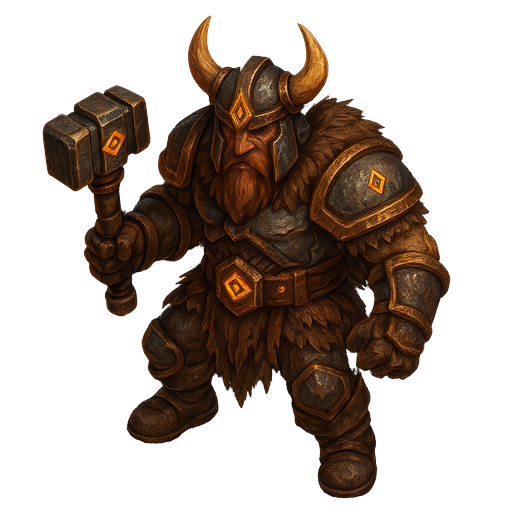
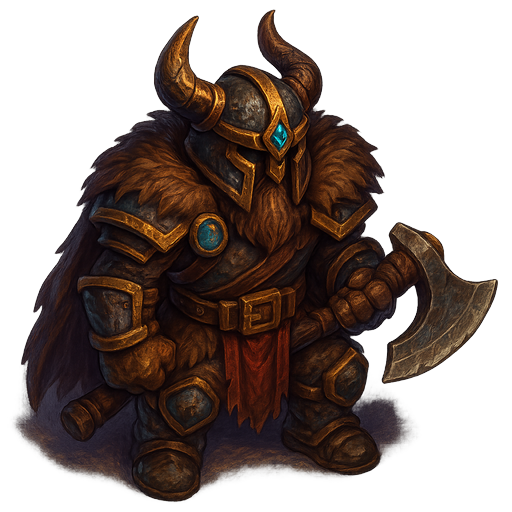
feat: visual polish pass — portal, fortress, boss, tower identity
- Portal: sprite drawn 63% larger (cs×6.5), + rotating dual rune ring
  and purple smoke wisps always drawn over the sprite
- Fortress: flanking torch flames (flickering, per-side phase offset) added
  to _drawGoal for identity without changing layout
- Boss enemies: pulsing crimson ground aura + dashed rotating threat ring;
  sprite rendered 30% larger (radius×7.8 vs 6.0) for screen presence
- Tower baseplates: Valkyrie → gold (#c8a030), Military/Archer → green
  (#3a8830); alpha raised 0.22→0.32, border stroke always drawn
- Synergy glow: reduced from '99' to '55' opacity for cleaner battlefield
- New AI sprites: ground_tile, path_tile, goal_trelleborg_fort regenerated

diff --git a/src/grid/grid.js b/src/grid/grid.js
@@ -175,19 +175,19 @@ export class Grid {
 
     const sp = SPRITES['portal'];
     if (sp && sp.img.complete && sp.img.naturalWidth > 0) {
-      const dw = cs * 4;
+      const dw = cs * 6.5;
       const dh = dw * (sp.frameH / sp.frameW);
       ctx.save();
-      ctx.shadowColor = `rgba(140,60,255,${0.55 + pulse * 0.45})`;
-      ctx.shadowBlur  = 16 * pulse;
+      ctx.shadowColor = `rgba(140,60,255,${0.65 + pulse * 0.35})`;
+      ctx.shadowBlur  = 22 * pulse;
       ctx.drawImage(sp.img, 0, 0, sp.frameW, sp.frameH, cx - dw / 2, cy - dh / 2, dw, dh);
       ctx.restore();
       // Pulsing purple void at center
       ctx.save();
-      ctx.globalAlpha = 0.25 * pulse;
+      ctx.globalAlpha = 0.30 * pulse;
       ctx.fillStyle   = '#a030ff';
       ctx.beginPath();
-      ctx.arc(cx, cy, cs * 0.8, 0, Math.PI * 2);
+      ctx.arc(cx, cy, cs * 0.9, 0, Math.PI * 2);
       ctx.fill();
       ctx.restore();
     } else {
@@ -249,6 +249,54 @@ export class Grid {
       ctx.fillStyle   = `rgba(245,225,255,${0.75 + pulse * 0.25})`;
       ctx.beginPath();
       ctx.arc(cx, cy, 1.8 + pulse * 0.9, 0, Math.PI * 2);
+      ctx.fill();
+      ctx.restore();
+    }
+
+    // ── Rotating rune ring — always drawn over sprite or fallback ─────────────
+    {
+      const rot1 =  time * 1.1;
+      const rot2 = -time * 0.7;
+      const ringR = cs * 2.6;
+      ctx.save();
+      ctx.translate(cx, cy);
+
+      ctx.rotate(rot1);
+      ctx.strokeStyle = `rgba(160,80,255,${0.28 + pulse * 0.22})`;
+      ctx.lineWidth   = 0.8;
+      ctx.setLineDash([2, 5]);
+      ctx.beginPath(); ctx.arc(0, 0, ringR, 0, Math.PI * 2); ctx.stroke();
+      for (let i = 0; i < 6; i++) {
+        const a = (i / 6) * Math.PI * 2;
+        ctx.save();
+        ctx.translate(Math.cos(a) * ringR, Math.sin(a) * ringR);
+        ctx.fillStyle = `rgba(200,140,255,${0.55 + pulse * 0.35})`;
+        ctx.beginPath(); ctx.arc(0, 0, 1.2, 0, Math.PI * 2); ctx.fill();
+        ctx.restore();
+      }
+
+      ctx.rotate(rot2 - rot1);
+      ctx.strokeStyle = `rgba(100,160,255,${0.18 + pulse * 0.14})`;
+      ctx.lineWidth   = 0.6;
+      ctx.setLineDash([1, 4]);
+      ctx.beginPath(); ctx.arc(0, 0, ringR * 0.72, 0, Math.PI * 2); ctx.stroke();
+
+      ctx.setLineDash([]);
+      ctx.restore();
+    }
+
+    // ── Smoke wisps drifting up from portal base ───────────────────────────────
+    for (let i = 0; i < 4; i++) {
+      const si = i / 4;
+      const sw = cs * 0.7 * Math.sin(time * 1.4 + i * 2.1);
+      const sh = cy + cs * (0.4 + Math.sin(time * 2.1 + i * 1.8) * 0.15);
+      const sr = 2.2 + Math.sin(time + i) * 0.8;
+      const sa = (0.10 + Math.sin(time * 1.8 + i * 0.7) * 0.04) * (1 - si * 0.25);
+      ctx.save();
+      ctx.globalAlpha = sa;
+      ctx.fillStyle   = '#c880ff';
+      ctx.beginPath();
+      ctx.arc(cx + sw, sh, sr, 0, Math.PI * 2);
       ctx.fill();
       ctx.restore();
     }
@@ -435,6 +483,39 @@ export class Grid {
       ctx.fill();
       ctx.shadowBlur = 0;
       ctx.restore();
+    }
+
+    // ── Fortress torches — two flickering flames flanking the fortress ─────────
+    {
+      const flickerL = 0.55 + Math.sin(time * 9.1) * 0.25 + Math.sin(time * 13.7) * 0.12;
+      const flickerR = 0.55 + Math.sin(time * 8.3 + 1.4) * 0.25 + Math.sin(time * 12.1 + 0.9) * 0.12;
+      const torchPositions = [
+        { tx: cx - cs * 2.6, ty: cy - cs * 0.5, flicker: flickerL },
+        { tx: cx + cs * 2.6, ty: cy - cs * 0.5, flicker: flickerR },
+      ];
+      for (const { tx, ty, flicker } of torchPositions) {
+        ctx.save();
+        // Torch pole
+        ctx.fillStyle = '#5a3812';
+        ctx.fillRect(tx - 1, ty, 2, cs * 1.0);
+        // Torch head
+        ctx.fillStyle = '#8a5820';
+        ctx.fillRect(tx - 2.5, ty - 3, 5, 5);
+        // Flame glow
+        ctx.shadowColor = `rgba(255,150,40,${flicker * 0.75})`;
+        ctx.shadowBlur  = 8 * flicker;
+        // Flame body
+        const fGrad = ctx.createRadialGradient(tx, ty - 2, 0, tx, ty - 2, 5);
+        fGrad.addColorStop(0,   `rgba(255,240,150,${flicker * 0.95})`);
+        fGrad.addColorStop(0.4, `rgba(255,140,30,${flicker * 0.75})`);
+        fGrad.addColorStop(1,   'rgba(200,60,10,0)');
+        ctx.fillStyle = fGrad;
+        ctx.beginPath();
+        ctx.ellipse(tx, ty - 3, 3 * flicker, 5 * flicker, 0, 0, Math.PI * 2);
+        ctx.fill();
+        ctx.shadowBlur = 0;
+        ctx.restore();
+      }
     }
   }
 

diff --git a/src/entities/enemy.js b/src/entities/enemy.js
@@ -170,6 +170,36 @@ export class Enemy {
       return;
     }
 
+    // Boss ground aura — pulsing crimson ring that scales with threat
+    if (this.isBoss) {
+      const bT     = performance.now() * 0.001;
+      const bPulse = 0.5 + Math.sin(bT * 1.8) * 0.5;
+      const auraR  = this.radius * 3.8;
+      const ag = ctx.createRadialGradient(
+        this.x, this.y + this.radius * 0.4, 0,
+        this.x, this.y + this.radius * 0.4, auraR
+      );
+      ag.addColorStop(0,    `rgba(180,20,20,${0.40 + bPulse * 0.20})`);
+      ag.addColorStop(0.45, `rgba(90,10,10,${0.18 + bPulse * 0.08})`);
+      ag.addColorStop(1,    'rgba(0,0,0,0)');
+      ctx.save();
+      ctx.fillStyle = ag;
+      ctx.beginPath();
+      ctx.ellipse(this.x, this.y + this.radius * 0.3, auraR, auraR * 0.52, 0, 0, Math.PI * 2);
+      ctx.fill();
+      const rot = bT * 0.5;
+      ctx.translate(this.x, this.y);
+      ctx.rotate(rot);
+      ctx.strokeStyle = `rgba(200,30,15,${0.22 + bPulse * 0.14})`;
+      ctx.lineWidth   = 1.5;
+      ctx.setLineDash([4, 7]);
+      ctx.beginPath();
+      ctx.arc(0, 0, this.radius * 2.8, 0, Math.PI * 2);
+      ctx.stroke();
+      ctx.setLineDash([]);
+      ctx.restore();
+    }
+
     // Myling flight shadow — wider ellipse + dashed drop line for clear altitude read
     if (this.type === ENEMY_TYPES.MYLING) {
       const shadowY = this.y + this.radius + 4;
@@ -341,7 +371,7 @@ export class Enemy {
     if (!sp || !sp.img.complete || sp.img.naturalWidth === 0) return false;
 
     const frame = Math.floor(performance.now() / 180) % 2;  // cycle IDLE/WALK frames only
-    const dh    = this.radius * 6.0;
+    const dh    = this.radius * (this.isBoss ? 7.8 : 6.0);
     const dw    = dh * sp.frameW / sp.frameH;
 
     // Ground shadow

diff --git a/src/core/game.js b/src/core/game.js
@@ -2614,9 +2614,10 @@ function drawRightPanel() {
 
   const lx    = px + 10;
   const dotX  = px + 8;
-  let   ly    = GRID_TOP + 14;
   const rEdge = px + pw - 8;
   const barW  = pw - 20;
+  // drawWaveAnnouncement draws a 40px banner at GRID_TOP+2; start below it
+  let   ly    = GRID_TOP + 50;
 
   ctx.save();
 
@@ -2644,32 +2645,18 @@ function drawRightPanel() {
   const progress     = displayWaveR / MAX_WAVES;
   const waveBarColor = progress < 0.5 ? '#60c840' : progress < 0.8 ? '#e8c040' : '#e84040';
 
-  ctx.font      = 'bold 8px monospace';
-  ctx.fillStyle = 'rgba(160,120,50,0.50)';
-  ctx.textAlign = 'left';
-  ctx.fillText('WAVE', lx, ly);
-  ctx.font      = 'bold 15px monospace';
-  ctx.fillStyle = '#f0d060';
-  ctx.textAlign = 'right';
-  ctx.fillText(`${displayWaveR}`, rEdge - 26, ly);
-  ctx.font      = '9px monospace';
-  ctx.fillStyle = 'rgba(160,130,55,0.50)';
-  ctx.fillText(`/ ${MAX_WAVES}`, rEdge, ly);
-  ctx.textAlign = 'left';
-  ly += 8;
-
   ctx.fillStyle = 'rgba(30,15,4,0.9)';
-  ctx.beginPath(); ctx.roundRect(lx, ly, barW, 10, 4); ctx.fill();
+  ctx.beginPath(); ctx.roundRect(lx, ly, barW, 8, 3); ctx.fill();
   if (progress > 0) {
     ctx.fillStyle   = waveBarColor;
-    ctx.shadowColor = waveBarColor; ctx.shadowBlur = 4;
-    ctx.beginPath(); ctx.roundRect(lx, ly, Math.max(2, barW * progress), 10, 4); ctx.fill();
+    ctx.shadowColor = waveBarColor; ctx.shadowBlur = 3;
+    ctx.beginPath(); ctx.roundRect(lx, ly, Math.max(2, barW * progress), 8, 3); ctx.fill();
     ctx.shadowBlur  = 0;
   }
-  ctx.font = 'bold 7px monospace'; ctx.fillStyle = 'rgba(255,255,255,0.65)'; ctx.textAlign = 'center';
-  ctx.fillText(`${Math.round(progress * 100)}%`, lx + barW / 2, ly + 7.5);
+  ctx.font = 'bold 7px monospace'; ctx.fillStyle = 'rgba(255,255,255,0.65)'; ctx.textAlign = 'right';
+  ctx.fillText(`${Math.round(progress * 100)}%  / ${MAX_WAVES}`, rEdge, ly + 6.5);
   ctx.textAlign = 'left';
-  ly += 16;
+  ly += 14;
   divider();
 
   if (waveState === 'active') {

diff --git a/src/entities/tower.js b/src/entities/tower.js
@@ -58,7 +58,7 @@ export const TOWER_DEFS = {
   [TOWER_TYPES.VALKYRIE]: {
     label:        'Valkyrie',
     key:          '3',
-    color:        '#88aaee',
+    color:        '#c8a030',
     rangeColor:   'rgba(100,140,220,0.28)',
     cost:         35,
     range:        110,
@@ -72,7 +72,7 @@ export const TOWER_DEFS = {
   [TOWER_TYPES.MILITARY]: {
     label:        'Archer',
     key:          '4',
-    color:        '#6688aa',
+    color:        '#3a8830',
     rangeColor:   'rgba(80,120,170,0.26)',
     cost:         35,
     range:        80,
@@ -363,18 +363,16 @@ export class Tower {
     const fpW = this.footprint.w * 14;
     const fpH = this.footprint.h * 14;
     ctx.save();
-    ctx.globalAlpha = this.disabledTimer > 0 ? 0.10 : 0.22;
+    ctx.globalAlpha = this.disabledTimer > 0 ? 0.10 : 0.32;
     ctx.fillStyle   = def.color;
     ctx.beginPath();
     ctx.roundRect(this.x - fpW / 2, this.y - fpH / 2, fpW, fpH, 3);
     ctx.fill();
-    // Footprint border for multi-cell towers
-    if (this.footprint.w > 1 || this.footprint.h > 1) {
-      ctx.globalAlpha = 0.38;
-      ctx.strokeStyle = def.color;
-      ctx.lineWidth   = 1;
-      ctx.stroke();
-    }
+    // Inner highlight rim
+    ctx.globalAlpha = this.disabledTimer > 0 ? 0.05 : 0.22;
+    ctx.strokeStyle = def.color;
+    ctx.lineWidth   = this.footprint.w > 1 || this.footprint.h > 1 ? 1.5 : 1;
+    ctx.stroke();
     ctx.restore();
 
     // Ground shadow — soft ellipse beneath the sprite; gradient cached by shadowR
@@ -400,7 +398,7 @@ export class Tower {
       const synergyColors = { eagleEye: '#88aaee', siegeFury: '#e87030', winterGrip: '#60c8f0' };
       const sc = synergyColors[this._synergy] ?? '#ffffff';
       ctx.save();
-      ctx.strokeStyle = sc + '99';
+      ctx.strokeStyle = sc + '55';
       ctx.lineWidth   = 1;
       ctx.setLineDash([2, 3]);
       ctx.lineDashOffset = -(performance.now() * 0.012) % 5;